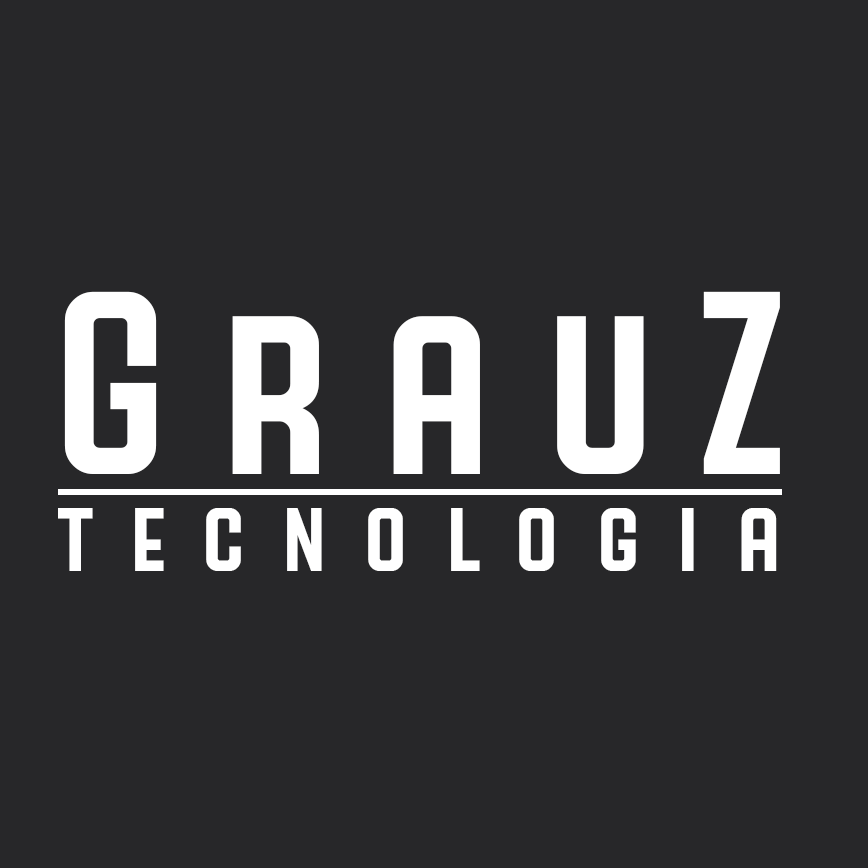
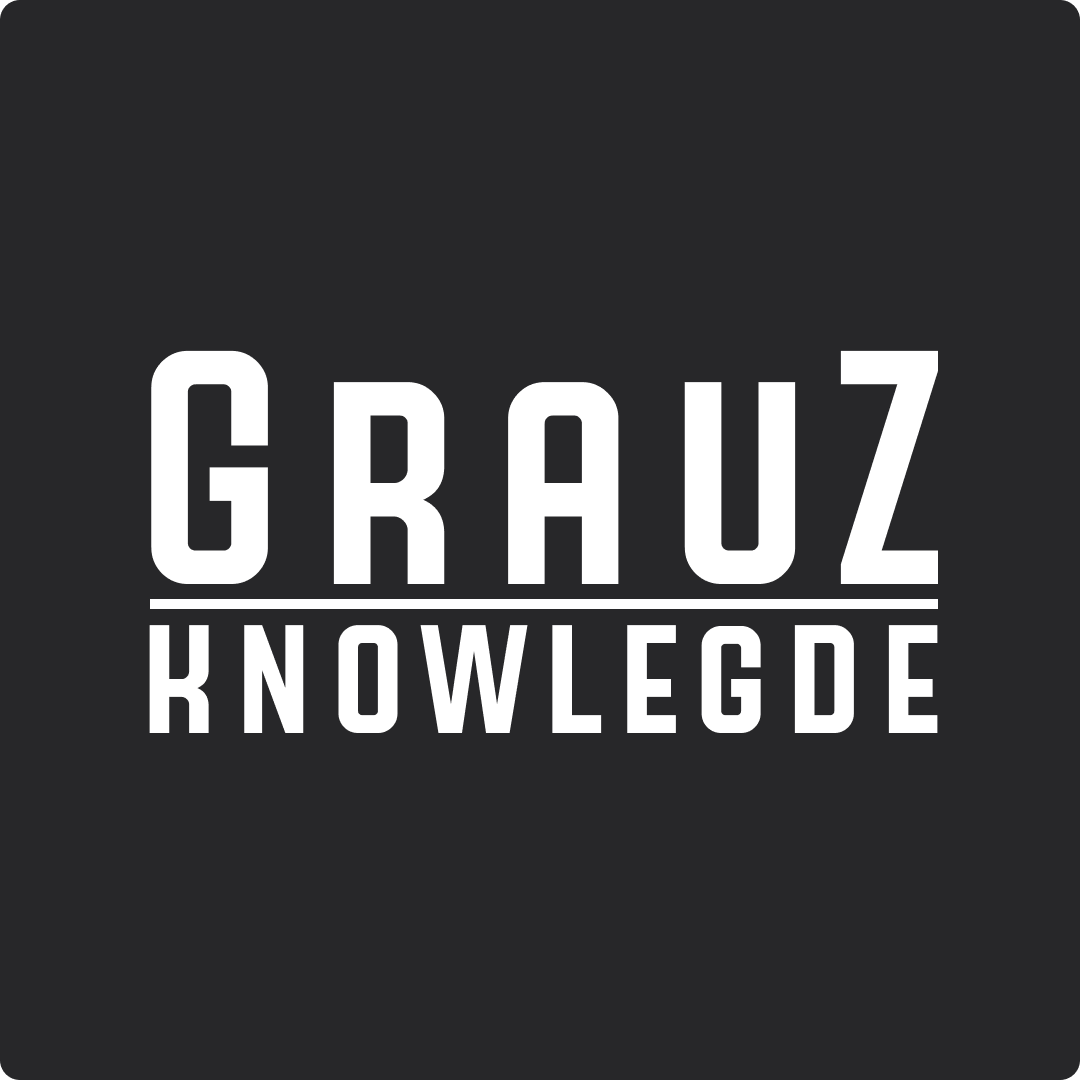
Configurações PWA

diff --git a/.nuxt/index.js b/.nuxt/index.js
@@ -64,7 +64,7 @@ async function createApp(ssrContext, config = {}) {
   // here we inject the router and store to all child components,
   // making them available everywhere as `this.$router` and `this.$store`.
   const app = {
-    head: {"title":"Blog - GrauZ Tecnologia","meta":[{"charset":"utf-8"},{"name":"viewport","content":"width=device-width, initial-scale=1"},{"hid":"description","name":"description","content":"## Build Setup"},{"hid":"mobile-web-app-capable","name":"mobile-web-app-capable","content":"yes"},{"hid":"apple-mobile-web-app-title","name":"apple-mobile-web-app-title","content":"Grauz Blog"},{"hid":"theme-color","name":"theme-color","content":"#b22727"},{"hid":"og:type","name":"og:type","property":"og:type","content":"website"},{"hid":"og:title","name":"og:title","property":"og:title","content":"Grauz Blog"},{"hid":"og:site_name","name":"og:site_name","property":"og:site_name","content":"Grauz Blog"},{"hid":"og:description","name":"og:description","property":"og:description","content":"## Build Setup"}],"link":[{"rel":"icon","type":"image\u002Fx-icon","href":"\u002Ffavicon.ico"},{"rel":"manifest","href":"\u002F_nuxt\u002Fmanifest.d7d446de.json"},{"rel":"shortcut icon","href":"\u002F_nuxt\u002Ficons\u002Ficon_64.ffd94b.png"},{"rel":"apple-touch-icon","href":"\u002F_nuxt\u002Ficons\u002Ficon_512.ffd94b.png","sizes":"512x512"}],"style":[],"script":[],"htmlAttrs":{"lang":"pt-br"}},
+    head: {"title":"GrauZ Knowlegde","meta":[{"charset":"utf-8"},{"name":"viewport","content":"width=device-width, initial-scale=1"},{"hid":"description","name":"description","content":"## Build Setup"},{"mobileAppIOS":true},{"hid":"mobile-web-app-capable","name":"mobile-web-app-capable","content":"yes"},{"hid":"apple-mobile-web-app-title","name":"apple-mobile-web-app-title","content":"Grauz Knowlegde"},{"hid":"theme-color","name":"theme-color","content":"#272729"},{"hid":"og:type","name":"og:type","property":"og:type","content":"website"},{"hid":"og:title","name":"og:title","property":"og:title","content":"Grauz Knowlegde"},{"hid":"og:site_name","name":"og:site_name","property":"og:site_name","content":"Grauz Knowlegde"},{"hid":"og:description","name":"og:description","property":"og:description","content":"## Build Setup"}],"link":[{"rel":"icon","type":"image\u002Fx-icon","href":"favicon.ico"},{"rel":"apple-touch-startup-image","href":"iphone5_splash.png","media":"(device-width: 320px) and (device-height: 568px) and (-webkit-device-pixel-ratio: 2)"},{"rel":"apple-touch-startup-image","href":"iphone6_splash.png","media":"(device-width: 375px) and (device-height: 667px) and (-webkit-device-pixel-ratio: 2)"},{"rel":"apple-touch-startup-image","href":"iphoneplus_splash.png","media":"(device-width: 621px) and (device-height: 1104px) and (-webkit-device-pixel-ratio: 3)"},{"rel":"apple-touch-startup-image","href":"iphonex_splash.png","media":"(device-width: 375px) and (device-height: 812px) and (-webkit-device-pixel-ratio: 3)"},{"rel":"apple-touch-startup-image","href":"iphonexr_splash.png","media":"(device-width: 414px) and (device-height: 896px) and (-webkit-device-pixel-ratio: 2)"},{"rel":"apple-touch-startup-image","href":"iphonexsmax_splash.png","media":"(device-width: 414px) and (device-height: 896px) and (-webkit-device-pixel-ratio: 3)"},{"rel":"apple-touch-startup-image","href":"ipad_splash.png","media":"(device-width: 768px) and (device-height: 1024px) and (-webkit-device-pixel-ratio: 2)"},{"rel":"apple-touch-startup-image","href":"ipadpro1_splash.png","media":"(device-width: 834px) and (device-height: 1112px) and (-webkit-device-pixel-ratio: 2)"},{"rel":"apple-touch-startup-image","href":"ipadpro3_splash.png","media":"(device-width: 834px) and (device-height: 1194px) and (-webkit-device-pixel-ratio: 2)"},{"rel":"apple-touch-startup-image","href":"ipadpro2_splash.png","media":"(device-width: 1024px) and (device-height: 1366px) and (-webkit-device-pixel-ratio: 2)"},{"rel":"manifest","href":"\u002F_nuxt\u002Fmanifest.c73b0dec.json"},{"rel":"shortcut icon","href":"\u002F_nuxt\u002Ficons\u002Ficon_64.8ce846.png"},{"rel":"apple-touch-icon","href":"\u002F_nuxt\u002Ficons\u002Ficon_512.8ce846.png","sizes":"512x512"}],"style":[],"script":[],"htmlAttrs":{"lang":"pt-br"}},
 
     store,
     router,

diff --git a/nuxt.config.js b/nuxt.config.js
@@ -14,7 +14,7 @@ export default {
    ** See https://nuxtjs.org/api/configuration-head
    */
   head: {
-    title: 'Blog - GrauZ Tecnologia',
+    title: 'GrauZ Knowlegde',
     meta: [
       { charset: 'utf-8' },
       { name: 'viewport', content: 'width=device-width, initial-scale=1' },
@@ -23,8 +23,71 @@ export default {
         name: 'description',
         content: process.env.npm_package_description || '',
       },
+      { mobileAppIOS: true },
     ],
-    link: [{ rel: 'icon', type: 'image/x-icon', href: '/favicon.ico' }],
+    link: [
+      { rel: 'icon', type: 'image/x-icon', href: 'favicon.ico' },
+      {
+        rel: 'apple-touch-startup-image',
+        href: 'iphone5_splash.png',
+        media:
+          '(device-width: 320px) and (device-height: 568px) and (-webkit-device-pixel-ratio: 2)',
+      },
+      {
+        rel: 'apple-touch-startup-image',
+        href: 'iphone6_splash.png',
+        media:
+          '(device-width: 375px) and (device-height: 667px) and (-webkit-device-pixel-ratio: 2)',
+      },
+      {
+        rel: 'apple-touch-startup-image',
+        href: 'iphoneplus_splash.png',
+        media:
+          '(device-width: 621px) and (device-height: 1104px) and (-webkit-device-pixel-ratio: 3)',
+      },
+      {
+        rel: 'apple-touch-startup-image',
+        href: 'iphonex_splash.png',
+        media:
+          '(device-width: 375px) and (device-height: 812px) and (-webkit-device-pixel-ratio: 3)',
+      },
+      {
+        rel: 'apple-touch-startup-image',
+        href: 'iphonexr_splash.png',
+        media:
+          '(device-width: 414px) and (device-height: 896px) and (-webkit-device-pixel-ratio: 2)',
+      },
+      {
+        rel: 'apple-touch-startup-image',
+        href: 'iphonexsmax_splash.png',
+        media:
+          '(device-width: 414px) and (device-height: 896px) and (-webkit-device-pixel-ratio: 3)',
+      },
+      {
+        rel: 'apple-touch-startup-image',
+        href: 'ipad_splash.png',
+        media:
+          '(device-width: 768px) and (device-height: 1024px) and (-webkit-device-pixel-ratio: 2)',
+      },
+      {
+        rel: 'apple-touch-startup-image',
+        href: 'ipadpro1_splash.png',
+        media:
+          '(device-width: 834px) and (device-height: 1112px) and (-webkit-device-pixel-ratio: 2)',
+      },
+      {
+        rel: 'apple-touch-startup-image',
+        href: 'ipadpro3_splash.png',
+        media:
+          '(device-width: 834px) and (device-height: 1194px) and (-webkit-device-pixel-ratio: 2)',
+      },
+      {
+        rel: 'apple-touch-startup-image',
+        href: 'ipadpro2_splash.png',
+        media:
+          '(device-width: 1024px) and (device-height: 1366px) and (-webkit-device-pixel-ratio: 2)',
+      },
+    ],
   },
   /*
    ** Global CSS
@@ -76,9 +139,11 @@ export default {
   loading: { color: '#b22727' },
   pwa: {
     manifest: {
-      name: 'Grauz Blog',
-      short_name: 'Grauz Blog',
+      name: 'Grauz Knowlegde',
+      short_name: 'Grauz Knowlegde',
       lang: 'pt-br',
+      theme_color: '#272729',
+      background_color: '#272729',
       useWebmanifestExtension: false,
     },
   },

diff --git a/.nuxt/nuxt-icons.js b/.nuxt/nuxt-icons.js
@@ -1,5 +1,5 @@
 export default async function (ctx, inject) {
-  const icons = {"64x64":"/_nuxt/icons/icon_64.ffd94b.png","120x120":"/_nuxt/icons/icon_120.ffd94b.png","144x144":"/_nuxt/icons/icon_144.ffd94b.png","152x152":"/_nuxt/icons/icon_152.ffd94b.png","192x192":"/_nuxt/icons/icon_192.ffd94b.png","384x384":"/_nuxt/icons/icon_384.ffd94b.png","512x512":"/_nuxt/icons/icon_512.ffd94b.png"}
+  const icons = {"64x64":"/_nuxt/icons/icon_64.8ce846.png","120x120":"/_nuxt/icons/icon_120.8ce846.png","144x144":"/_nuxt/icons/icon_144.8ce846.png","152x152":"/_nuxt/icons/icon_152.8ce846.png","192x192":"/_nuxt/icons/icon_192.8ce846.png","384x384":"/_nuxt/icons/icon_384.8ce846.png","512x512":"/_nuxt/icons/icon_512.8ce846.png"}
   const getIcon = size => icons[size + 'x' + size] || ''
   inject('icon', getIcon)
 }
